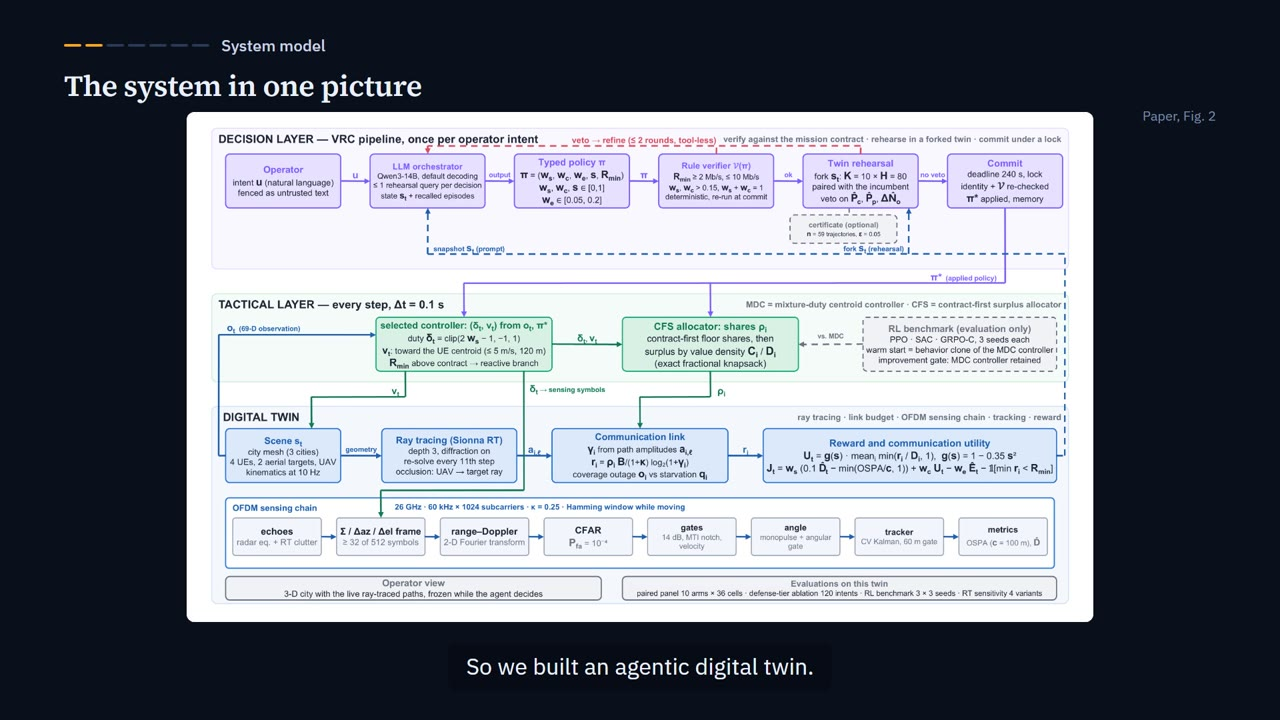
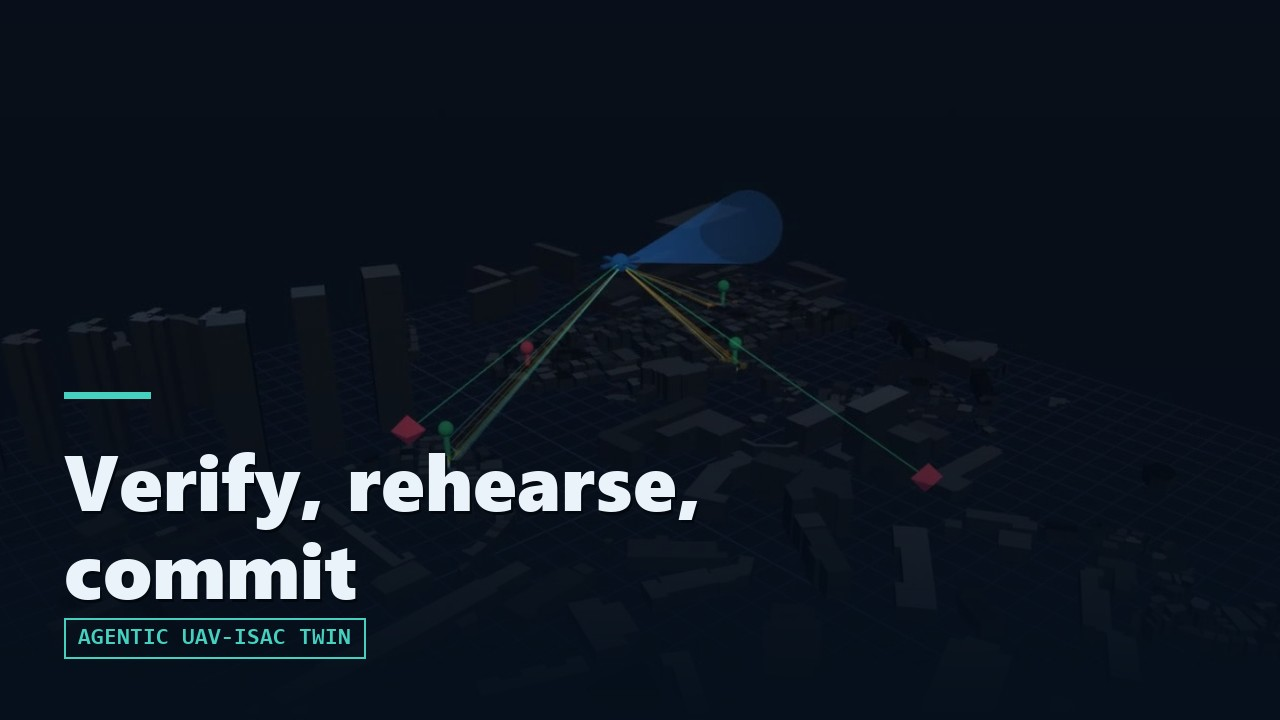
Add designed demo thumbnails and link demos to publications
Compose cover images from video frames in the site palette, each
leading with the paper's central question. Link every demo's venue
chip to its publication entry, clearing an active filter first and
flashing the target on arrival.

diff --git a/index.html b/index.html
@@ -17,6 +17,16 @@
   html { -webkit-text-size-adjust: 100%; }
   img { max-width: 100%; }
   [hidden] { display: none !important; }
+
+  .demo-facts a.paper-link { text-decoration: none; transition: background .2s var(--ease), color .2s var(--ease); }
+  .demo-facts a.paper-link:hover,
+  .demo-facts a.paper-link:focus-visible { background: var(--lock); color: #06121F; }
+  ol.biblio li { scroll-margin-top: 110px; }
+  ol.biblio li.flash { animation: flashref 2.4s var(--ease); }
+  @keyframes flashref {
+    0%, 62% { background: color-mix(in srgb, var(--lock) 17%, transparent); box-shadow: inset 3px 0 0 var(--lock); }
+    100%    { background: transparent; box-shadow: inset 3px 0 0 transparent; }
+  }
 </style>
 <title>Azharul Islam</title>
 <link rel="preconnect" href="https://fonts.googleapis.com">
@@ -588,7 +598,7 @@
             <h3>Coverage and Capacity Optimization in an O-RAN Digital Twin</h3>
             <p>Static tuning measured against learned control inside the twin, with the full safe-automation path: shadow mode, promotion gate, automatic rollback.</p>
             <div class="demo-facts">
-              <span class="venue">IEEE TNSM, submitted</span>
+              <a class="venue paper-link" href="#pub-tnsm">IEEE TNSM, submitted</a>
               <span>5 min 46 s</span>
               <span>1080p</span>
             </div>
@@ -605,7 +615,7 @@
             <h3>Intent-Driven Agentic Decisions on a UAV-ISAC Digital Twin</h3>
             <p>An operator states an intent in natural language; the system verifies it against the mission contract, rehearses it in a forked twin, and only then commits under a lock. Built over ray-traced cities in Sionna RT.</p>
             <div class="demo-facts">
-              <span class="venue">IEEE TNSE, submitted</span>
+              <a class="venue paper-link" href="#pub-tnse">IEEE TNSE, submitted</a>
               <span>4 min 59 s</span>
               <span>1080p</span>
             </div>
@@ -622,7 +632,7 @@
             <h3>How Reliable Must V2X Be for Safe Cooperative Lane Changing?</h3>
             <p>Empirical impairment thresholds for cooperative lane changes, mapping where latency, loss and range stop being survivable for the manoeuvre.</p>
             <div class="demo-facts">
-              <span class="venue">IEEE VTC2026-Fall, accepted</span>
+              <a class="venue paper-link" href="#pub-vtc">IEEE VTC2026-Fall, accepted</a>
               <span>1 min 54 s</span>
               <span>1080p</span>
             </div>
@@ -670,11 +680,11 @@
           <p class="pub-title">A Hybrid Power-Rate Management Strategy in Distributed Congestion Control for 5G-NR-V2X Sidelink Communications</p>
           <p class="pub-meta">J. Tian, S. H. An, A. Islam and K. H. Chang. <em>Sensors</em>, <span class="num">vol. 23, no. 15, p. 6657, 2023</span></p>
         </div></li>
-        <li data-type="review"><div>
+        <li data-type="review" id="pub-tnsm"><div>
           <p class="pub-title">Coverage and Capacity Optimization in an O-RAN Digital Twin: Static Tuning or Learned Control? <span class="state review">submitted</span></p>
           <p class="pub-meta">A. Islam, A. A. Badrudeen, M. Ali and S. Kim. <em>IEEE Transactions on Network and Service Management</em>, <span class="num">October 2026</span></p>
         </div></li>
-        <li data-type="review"><div>
+        <li data-type="review" id="pub-tnse"><div>
           <p class="pub-title">Intent-Driven Agentic Decisions on a UAV-ISAC Digital Twin over Ray-Traced Cities: Verify, Rehearse, Commit <span class="state review">submitted</span></p>
           <p class="pub-meta">A. Islam, A. A. Badrudeen, S. Won and S. Kim. <em>IEEE Transactions on Network Science and Engineering</em>, <span class="num">October 2026</span></p>
         </div></li>
@@ -686,7 +696,7 @@
           <p class="pub-title">Semantic Cyclic Prefix: Transforming Guard Intervals into Intelligent Data Carriers for B5G OFDM Systems <span class="state review">under review</span></p>
           <p class="pub-meta">A. Islam and K. H. Chang. <em>IEEE Journal of Selected Topics in Signal Processing</em>, <span class="num">2026</span></p>
         </div></li>
-        <li data-type="conference"><div>
+        <li data-type="conference" id="pub-vtc"><div>
           <p class="pub-title">Empirical Communication Impairment Thresholds for Safe Cooperative Lane Changing: How Reliable Must V2X Be? <span class="state accepted">accepted</span></p>
           <p class="pub-meta">A. Islam, A. A. Badrudeen, M. Ali, S. Kim and I. Orikumhi. <em>IEEE 104th Vehicular Technology Conference (VTC2026-Fall)</em>, Boston, <span class="num">2026</span></p>
         </div></li>
@@ -865,6 +875,25 @@
       var want = btn.dataset.filter;
       buttons.forEach(function (b) { b.setAttribute('aria-pressed', String(b === btn)); });
       items.forEach(function (li) { li.hidden = !(want === 'all' || li.dataset.type === want); });
+    });
+  });
+
+
+  /* ---------------- demo -> publication deep links ---------------- */
+  document.querySelectorAll('a.paper-link').forEach(function (a) {
+    a.addEventListener('click', function (e) {
+      var target = document.querySelector(a.getAttribute('href'));
+      if (!target) return;
+      e.preventDefault();
+      if (target.hidden) {                       // a filter is hiding it
+        var all = document.querySelector('.filters button[data-filter="all"]');
+        if (all) all.click();
+      }
+      target.scrollIntoView({ behavior: reduce ? 'auto' : 'smooth', block: 'start' });
+      target.classList.remove('flash');
+      void target.offsetWidth;
+      target.classList.add('flash');
+      history.replaceState(null, '', a.getAttribute('href'));
     });
   });
 
